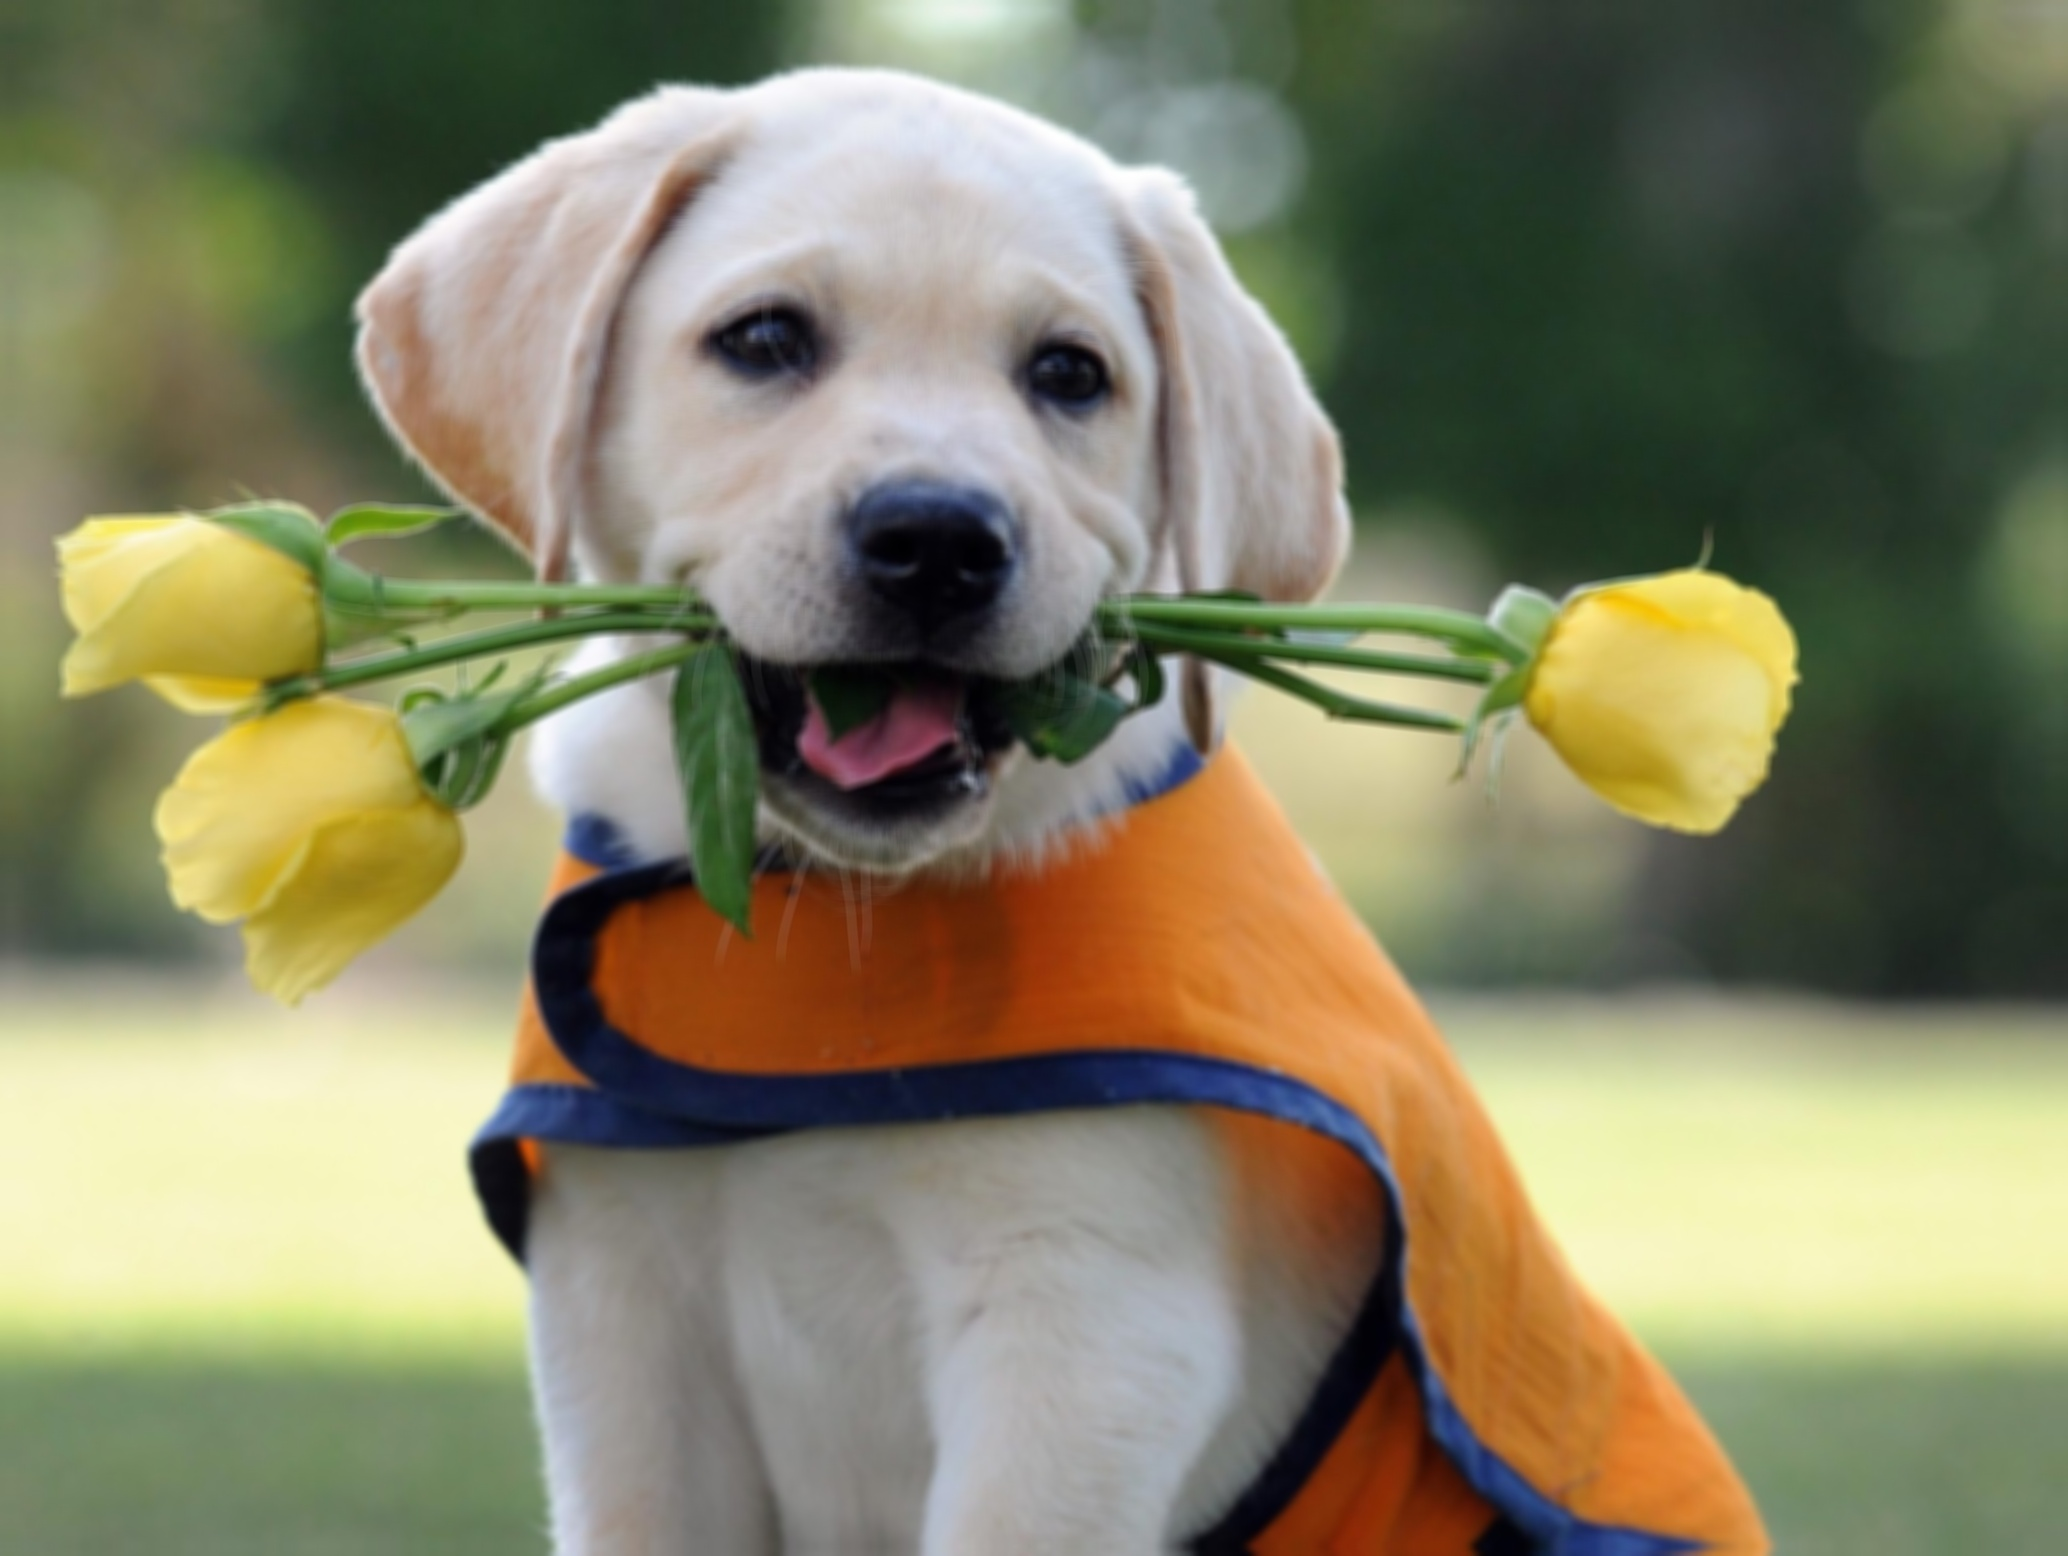
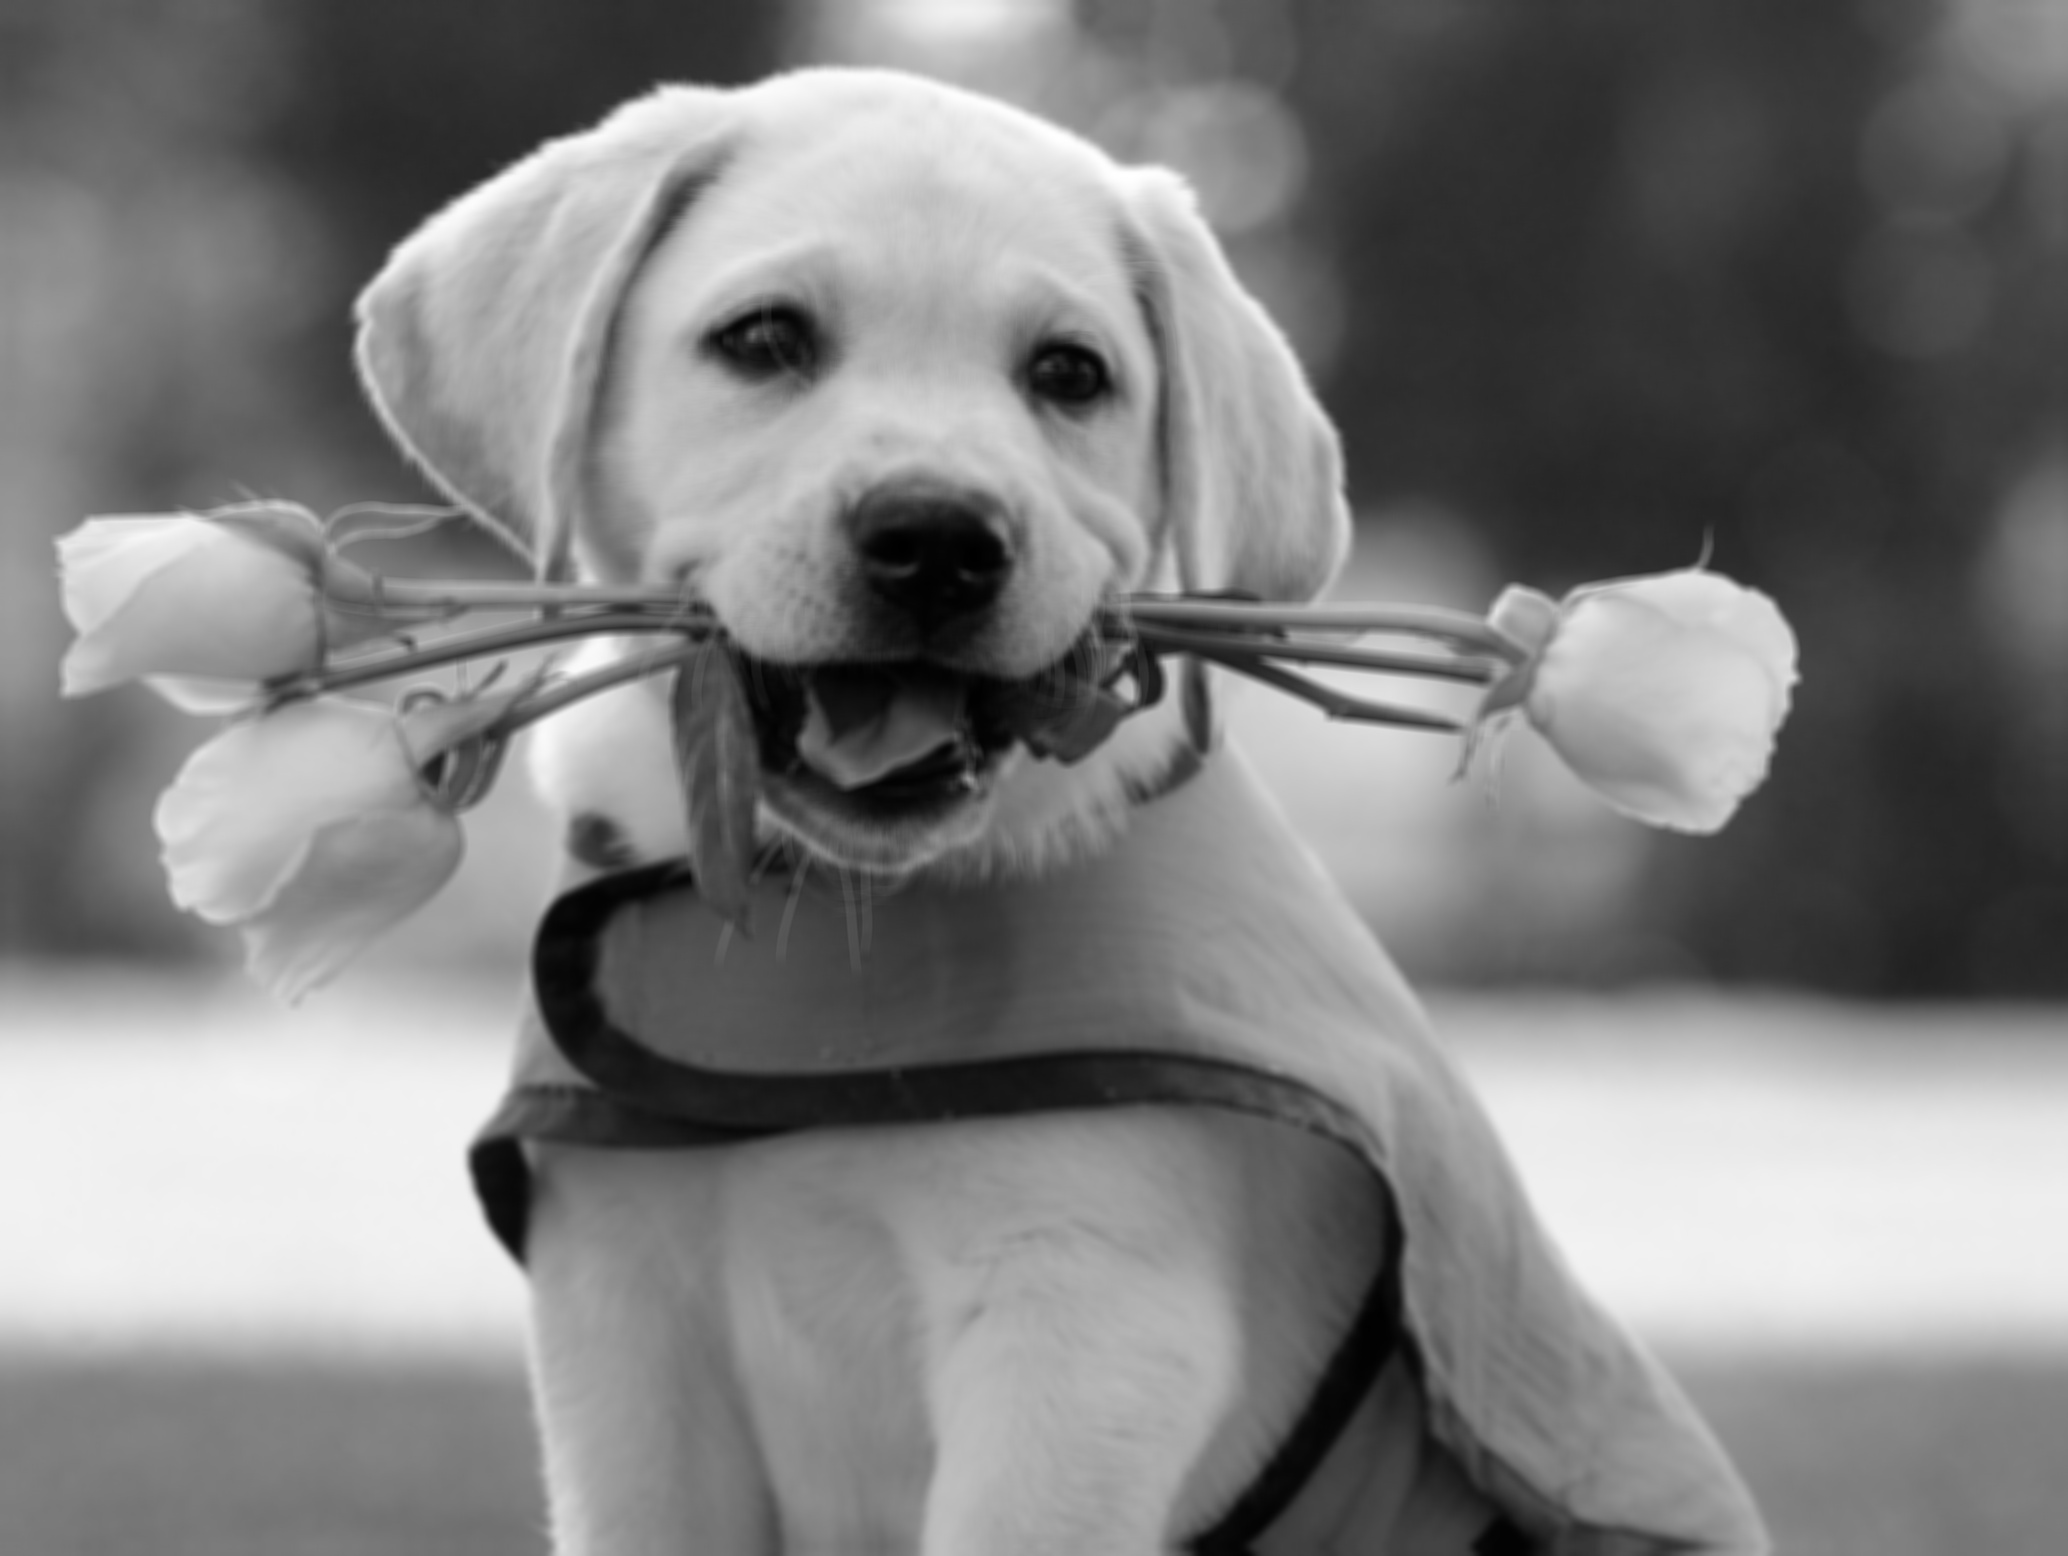
Q2 and Q4 changes

diff --git a/Simple spatial.py b/Simple spatial.py
@@ -8,6 +8,10 @@ import numpy as np
 
 #Loading the image using open cv
 image = cv2.imread('dog.jpg')
+
+#Convert to gray scale 
+image_gray = cv2.cvtColor(image, cv2.COLOR_BGR2GRAY)
+
 #Function to perform spatial 3*3 avarage 
 def filter(image,neighborhood_size):
 
@@ -20,9 +24,9 @@ def filter(image,neighborhood_size):
 
 
 #applying the filter process
-processed_image1 = filter(image,3)
-processed_image2 = filter(image,10)
-processed_image3 = filter(image,20)
+processed_image1 = filter(image_gray,3)
+processed_image2 = filter(image_gray,10)
+processed_image3 = filter(image_gray,20)
 
 
 # Saving the processed images
